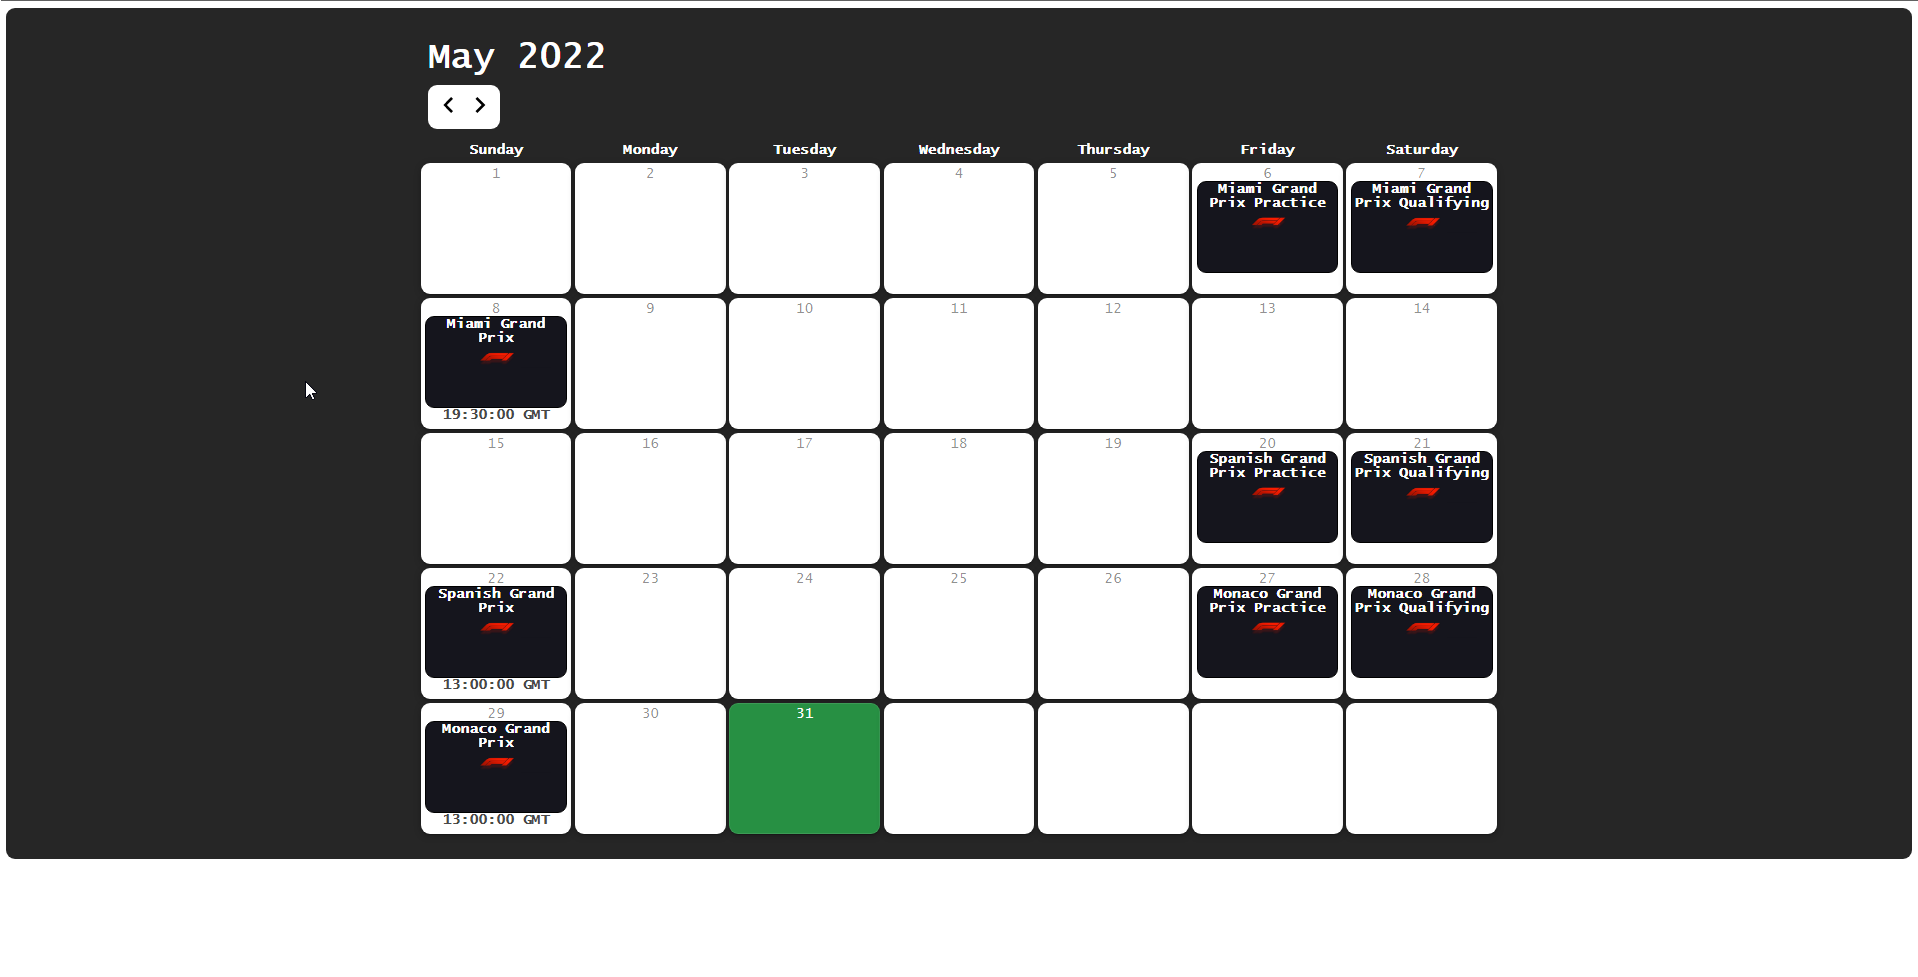
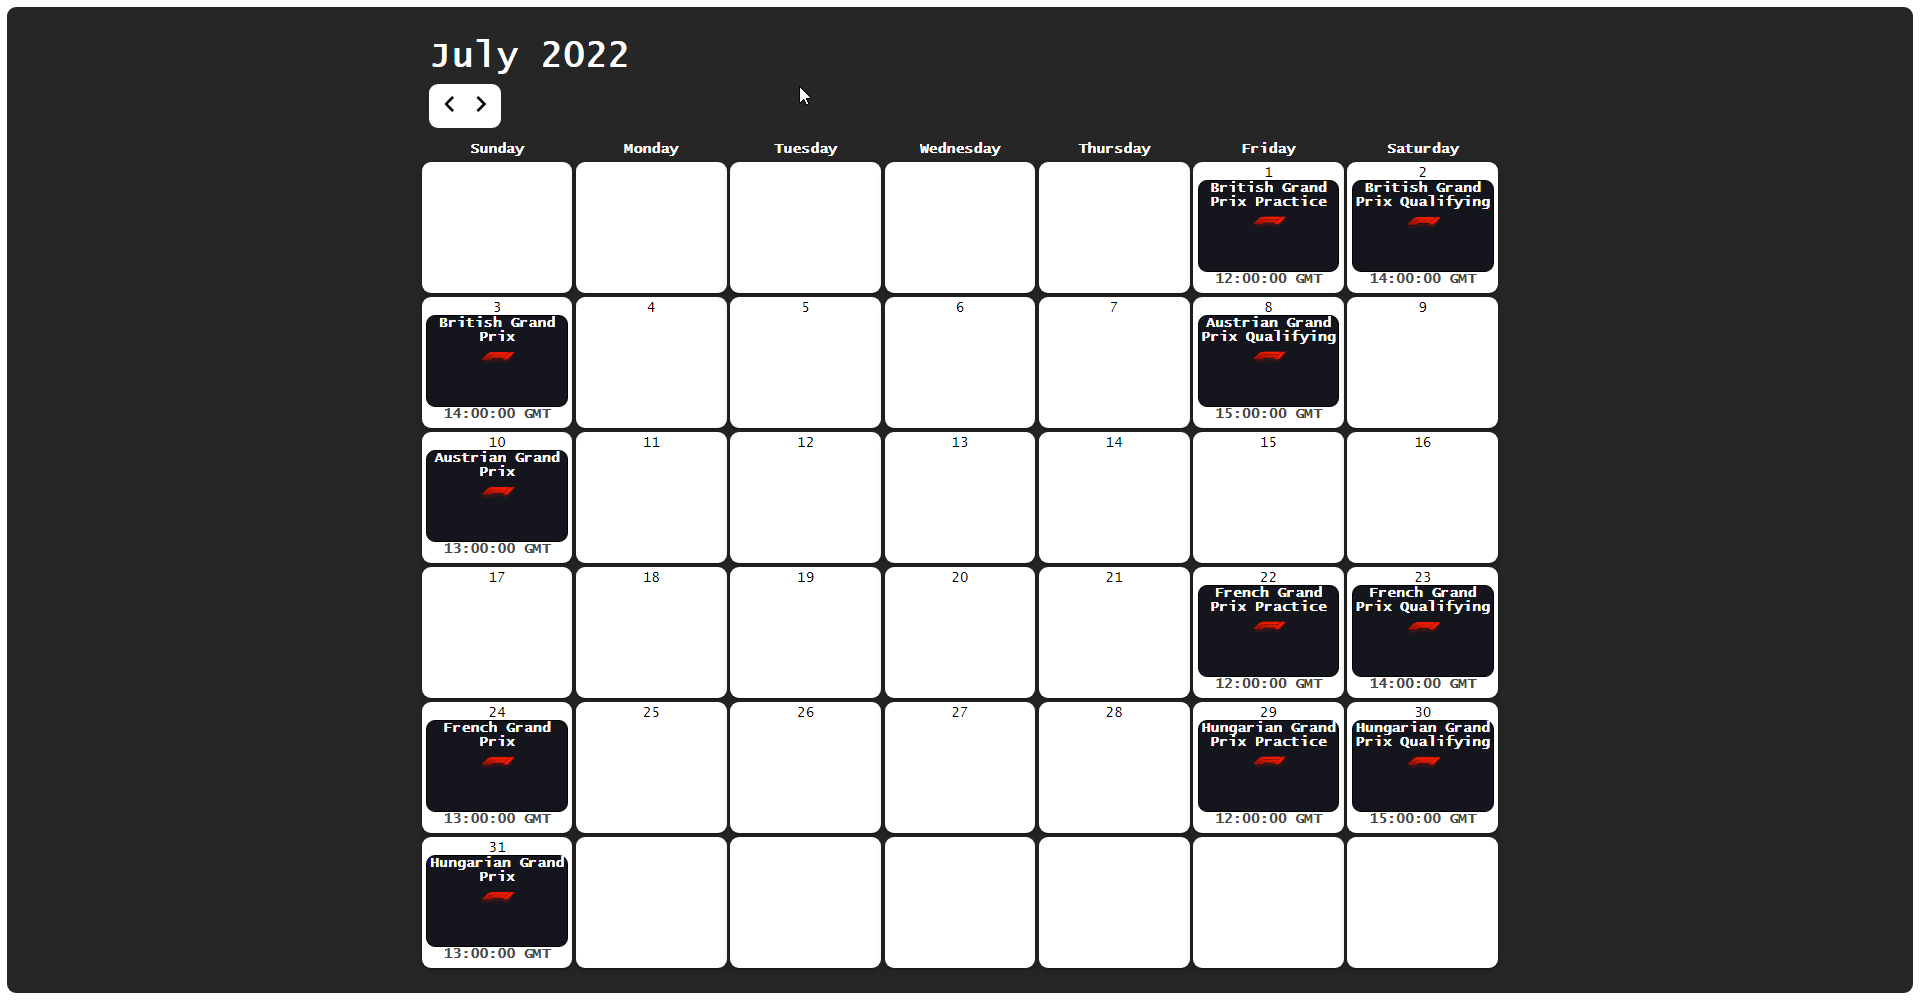
small fix

Changed region(s): [[0.0, 0.1228, 1.0, 1.0], [0.2153, 0.0307, 0.3384, 0.0921], [0.9844, 0.0, 1.0, 0.0307]]

diff --git a/src/components/Calendar/Day/Day.tsx b/src/components/Calendar/Day/Day.tsx
@@ -33,13 +33,24 @@ const Day = (props: DayProps) => {
                                             </div>
                                         </div>)
                                     : (race.Qualifying.date === day.format("YYYY-MM-DD")
-                                        ? <div className="raceDay">
-                                            {race.raceName} Qualifying
+                                        ? <div>
+                                            <div className="raceDay">
+                                                {race.raceName} Qualifying
+                                            </div>
+                                            <div className="raceCount">
+                                                {race.Qualifying.time.slice(0, -1)} GMT
+                                            </div>
                                         </div>
                                         : (race.FirstPractice.date === day.format("YYYY-MM-DD"))
-                                            ? <div className="raceDay">
-                                                {race.raceName} Practice
+                                            ? <div>
+                                                <div className="raceDay">
+                                                    {race.raceName} Practice
+                                                </div>
+                                                <div className="raceCount">
+                                                    {race.FirstPractice.time.slice(0, -1)} GMT
+                                                </div>
                                             </div>
+
                                             : <></>)
                                 )
                             }
